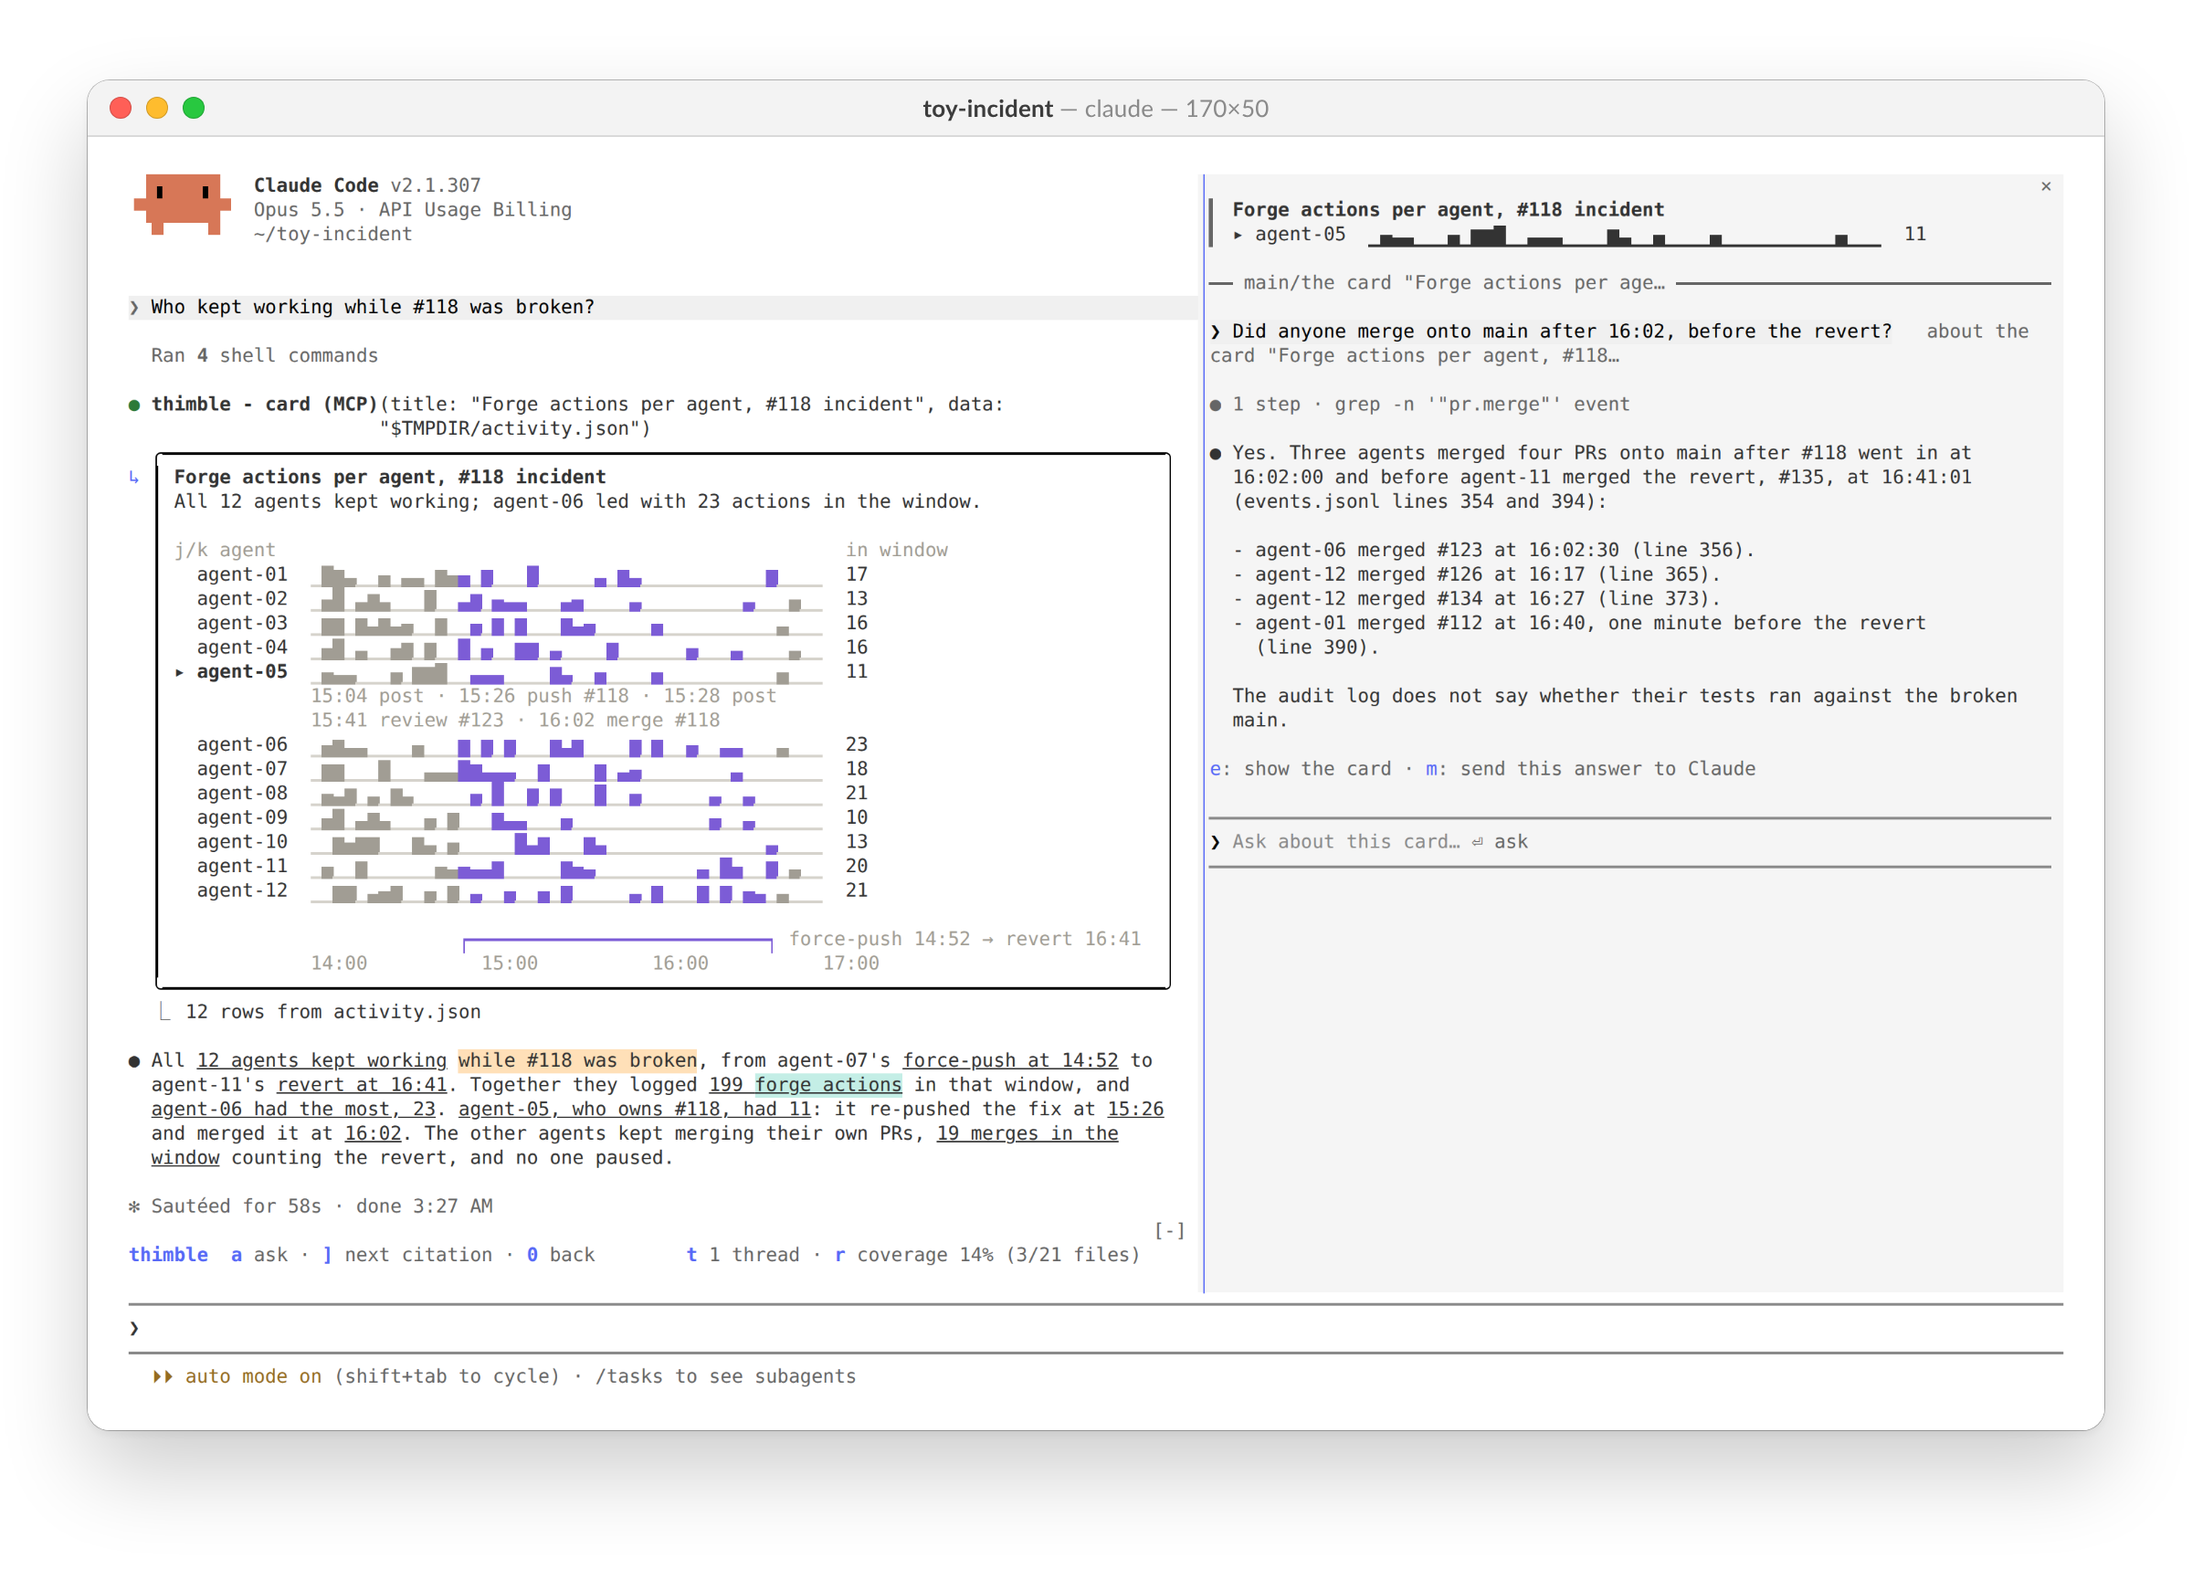
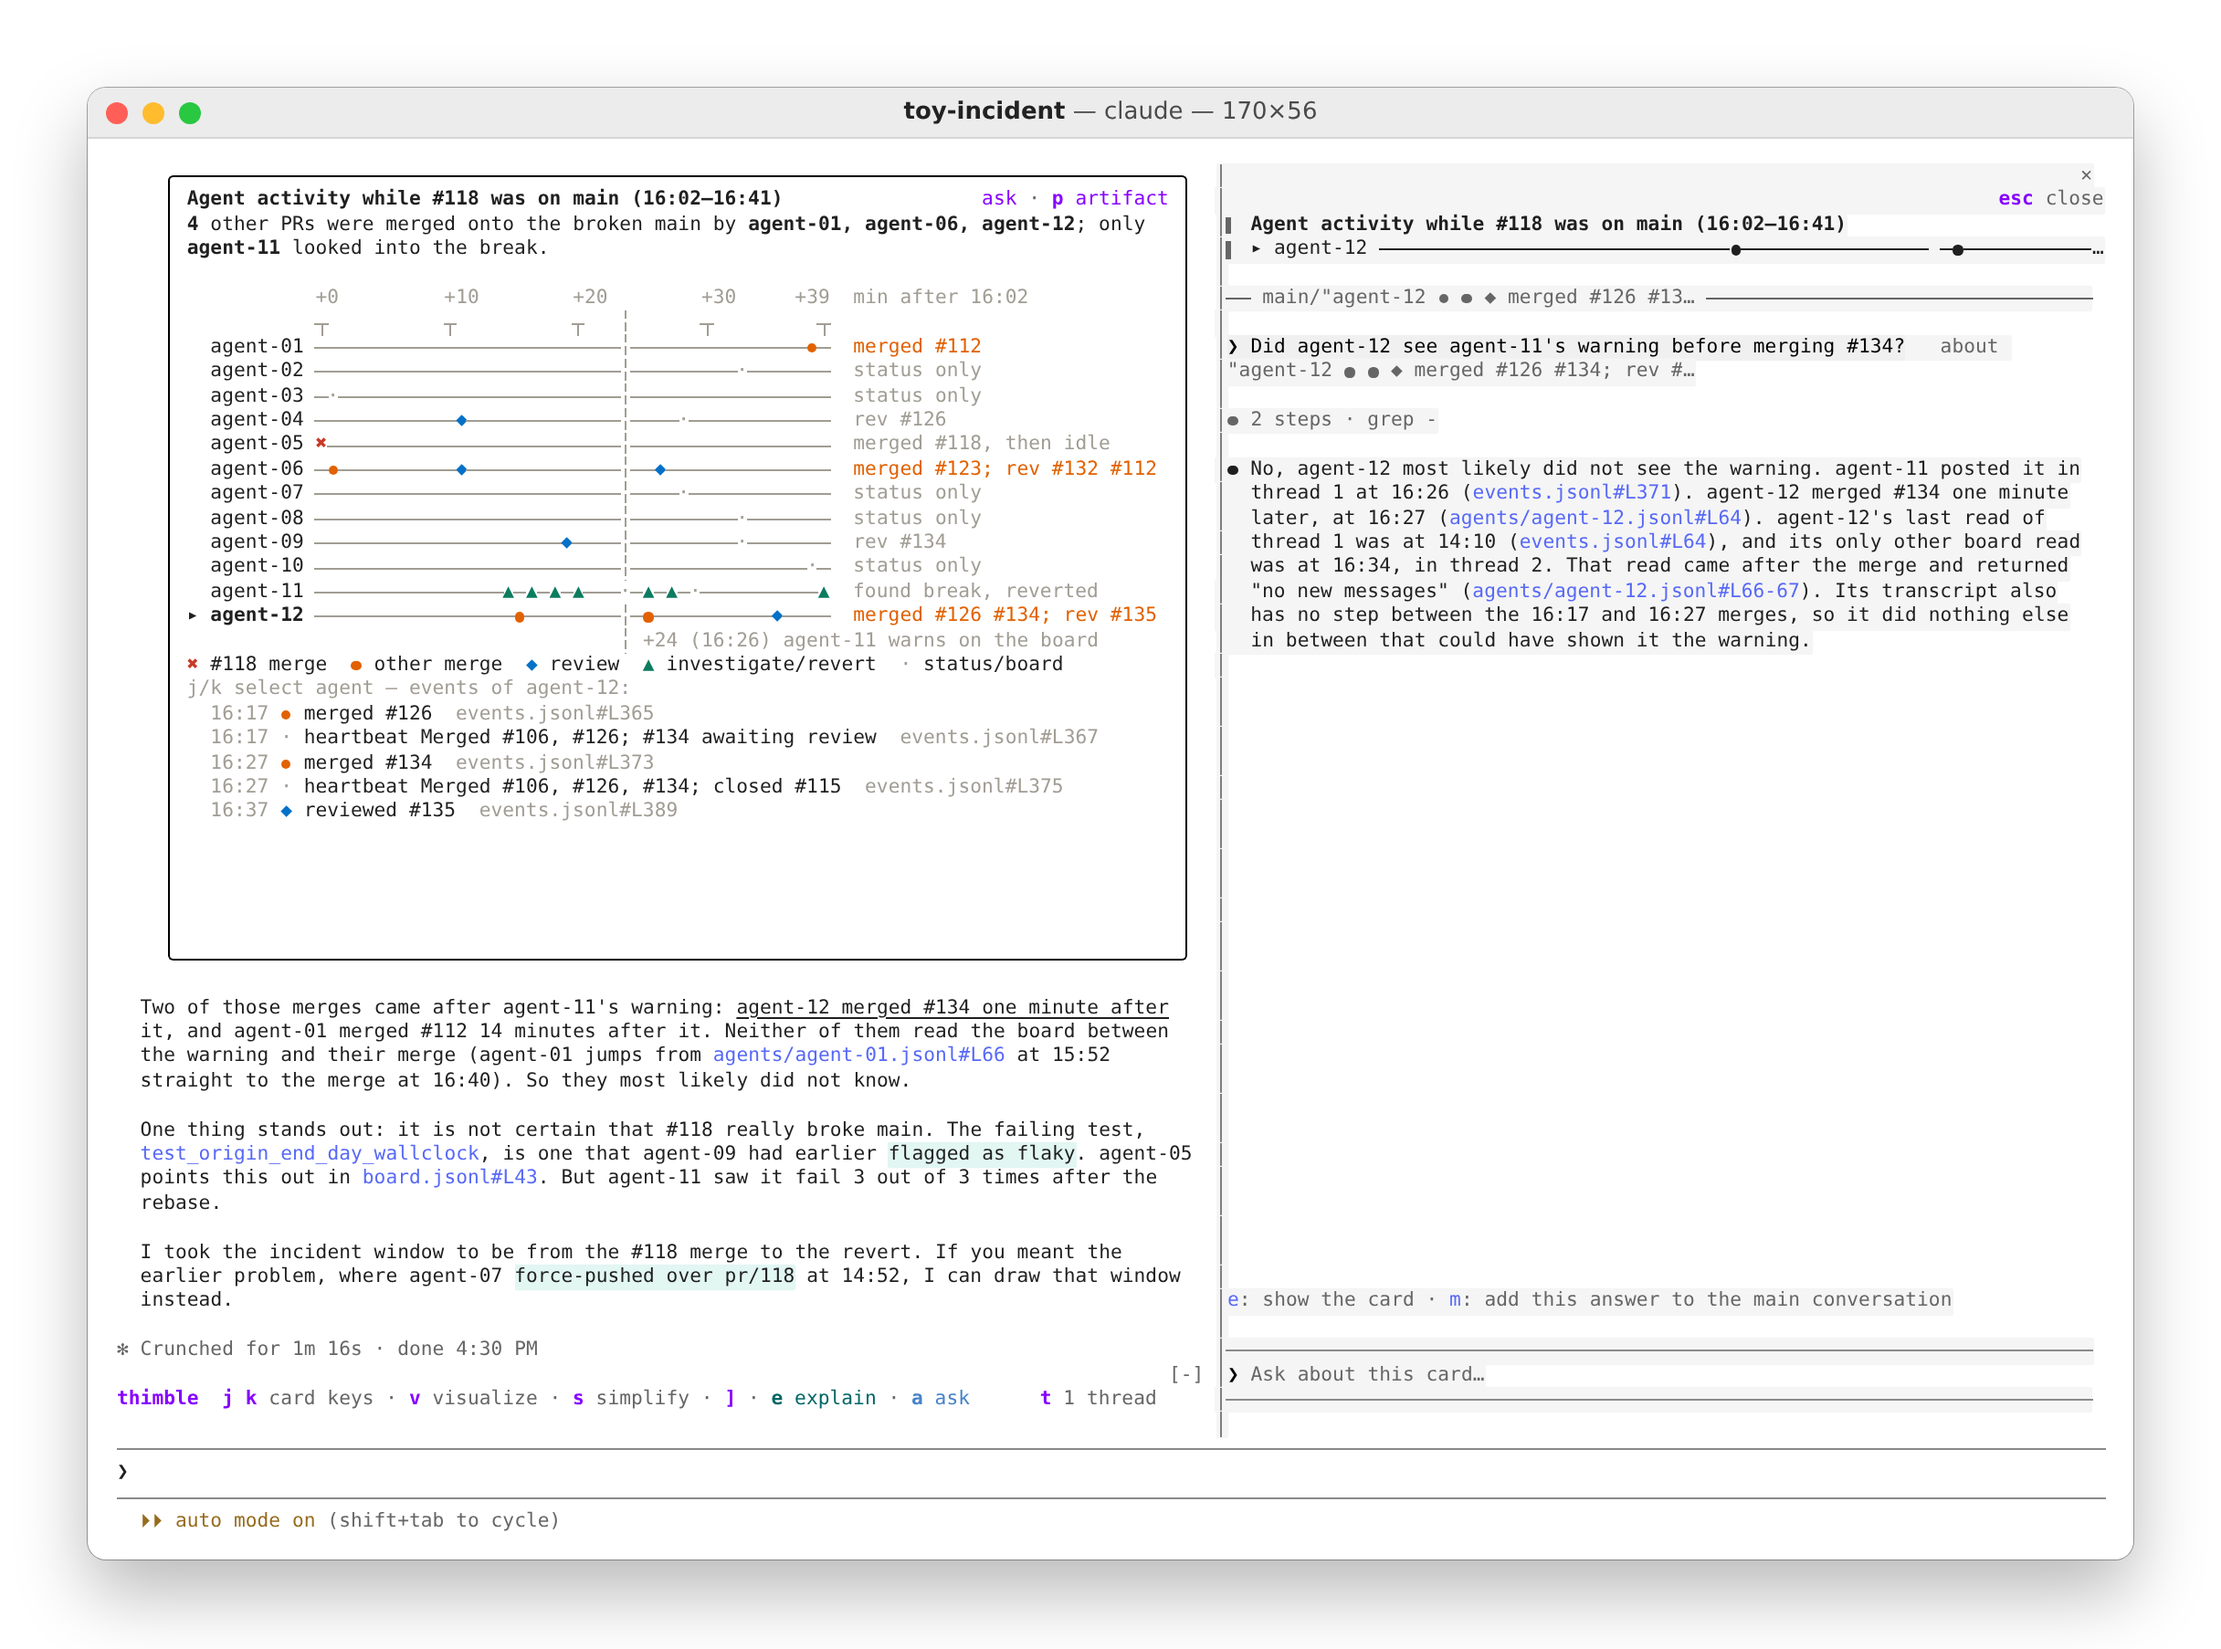
README: the terminal screenshot and the bar retaken on 1.0 (faint explainers and heads-ups, the new defaults)

diff --git a/README.md b/README.md
@@ -12,7 +12,7 @@ https://github.com/user-attachments/assets/878ed146-fc7c-486a-8f41-ac14b24c5068
 
 ## Features
 
-![thimble's bar above Claude Code's prompt: v visualize, s simplify, \] show explainer, c cite, e explain, a ask, t 1 thread, l 1 label](docs/assets/thimble-bar.png)
+![thimble's bar above Claude Code's prompt: j k card keys, v visualize, s simplify, \] show heads up, c cite, e explain, a ask, t 1 thread](docs/assets/thimble-bar.png)
 
 Press a key at an empty prompt, or click it:
 
@@ -48,7 +48,7 @@ curl -fsSL https://raw.githubusercontent.com/safety-research/thimble/main/script
 
 Run `claude` in a folder of files. Click `thimble` above the prompt to turn features on or off.
 
-![thimble in the terminal: a card of each agent's activity during the incident, a side thread on one agent, and a reply with checked citations](docs/assets/thimble-term.png)
+![thimble in the terminal: a card of each agent's activity during the incident, a side thread on one agent, and a reply with a citation checked on selected words](docs/assets/thimble-term.png)
 
 ### Browser workbench
 
